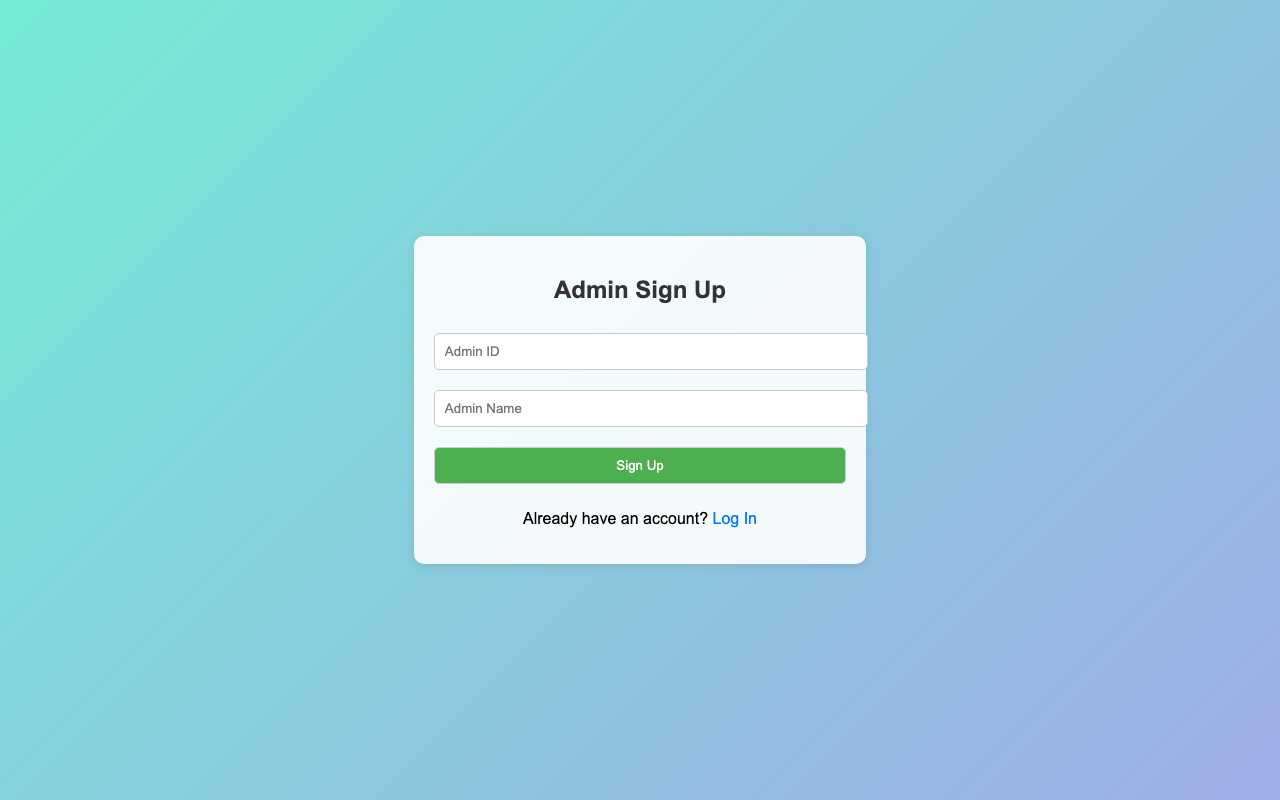
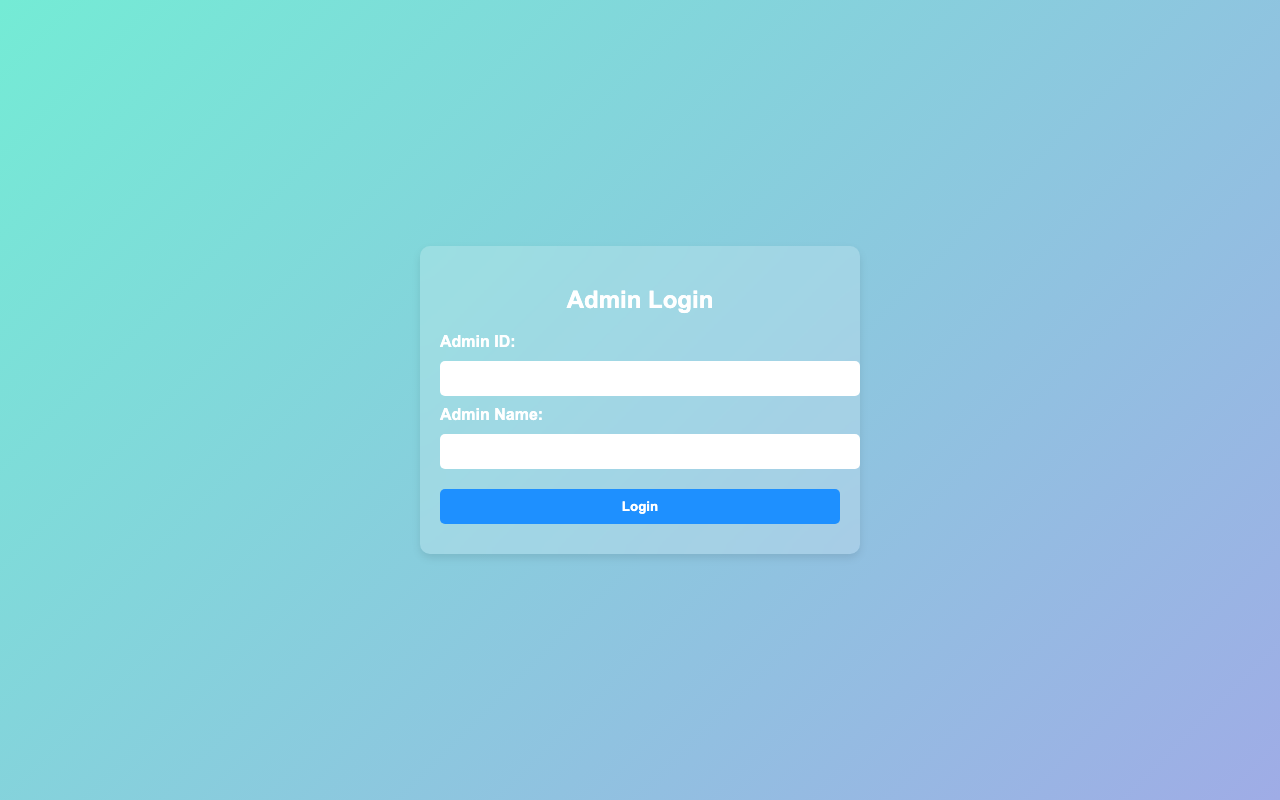
Retake legacy screenshots against the security-patched WAR
The legacy sign-up page now redirects to login once an admin exists
(AuthFilter, SEC-007); the modernized app shows the form and rejects the
submit instead. Noted in the screenshots README.

Changed region(s): [[0.3125, 0.2812, 0.6875, 0.7188]]

diff --git a/analysis/employee-app/screenshots/README.md b/analysis/employee-app/screenshots/README.md
@@ -2,6 +2,7 @@
 
 Captured 2026-10-31 with headless Chrome (Playwright), 1280×800, full page, logged in as admin 1 / Arun.
 Live `employee` database; no records were created or changed (forms were opened, not submitted).
+The legacy side is the **security-patched** WAR (`legacy/employee-app`, with `AuthFilter`), redeployed to Tomcat before capture.
 
 | # | Page | Legacy (JSP, Tomcat 9 :8080) | Modernized (React 18 + Spring Boot 3.4 :8091) |
 |---|---|---|---|
@@ -15,4 +16,8 @@ Live `employee` database; no records were created or changed (forms were opened,
 | 08 | Delete employee | `deleteEmployee.jsp` | `/employees/delete` |
 
 Matching file names in `legacy/` and `modernized/` show the same page.
+
+**02-signup differs.** Since admin 1 already exists, both apps close anonymous sign-up (SEC-007), but in different ways:
+the legacy `AuthFilter` redirects `signup.jsp` to the login page, so the legacy screenshot shows the login form; the
+modernized app shows the sign-up form and rejects the submit with "Sign-up is closed".
 Re-capture with both apps running: `npm i playwright-core && node capture.js "$PWD"`.
